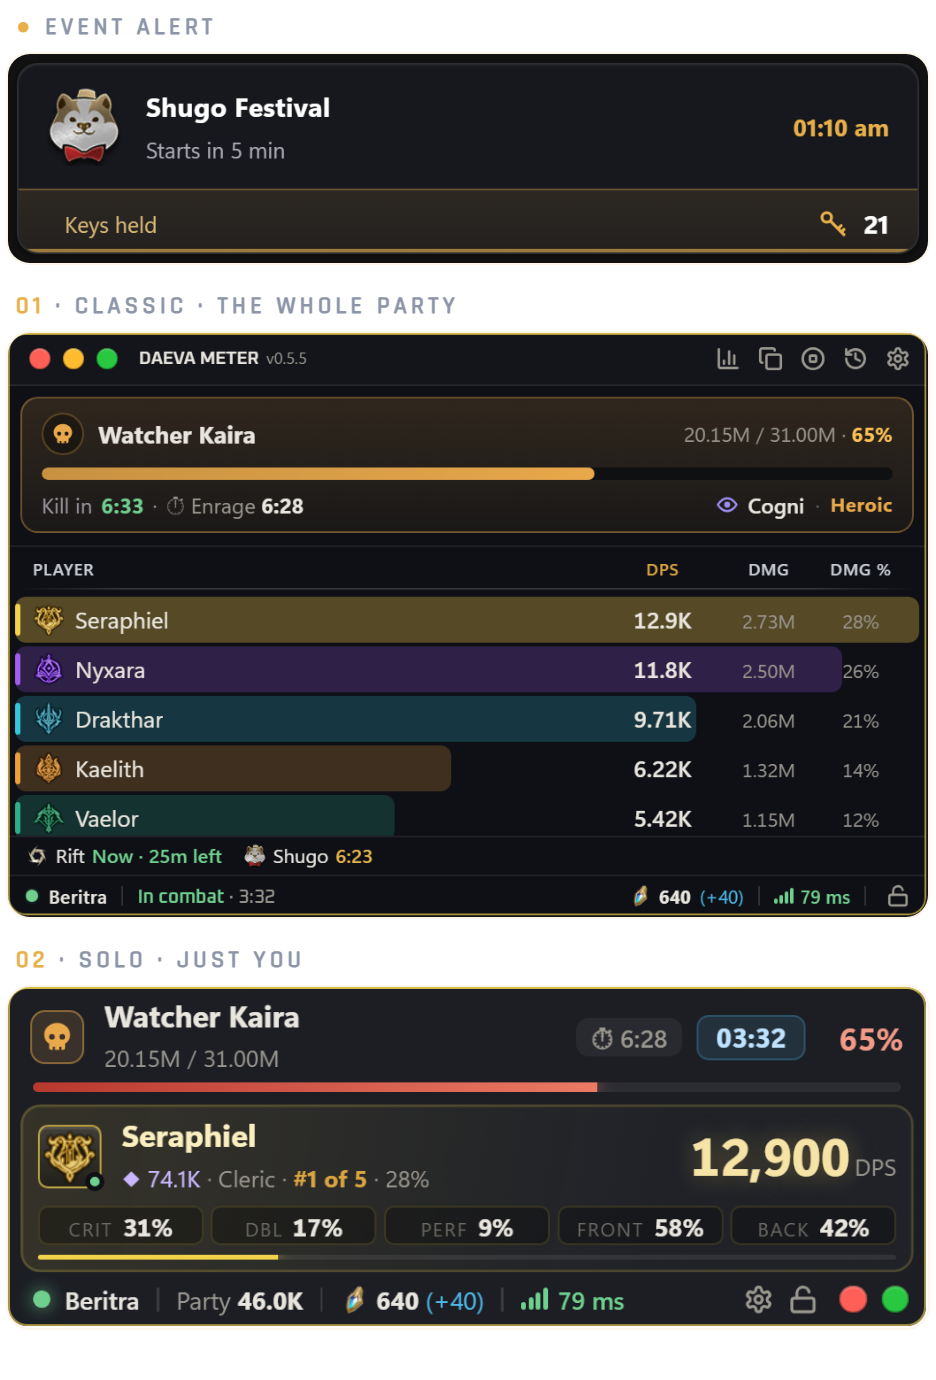
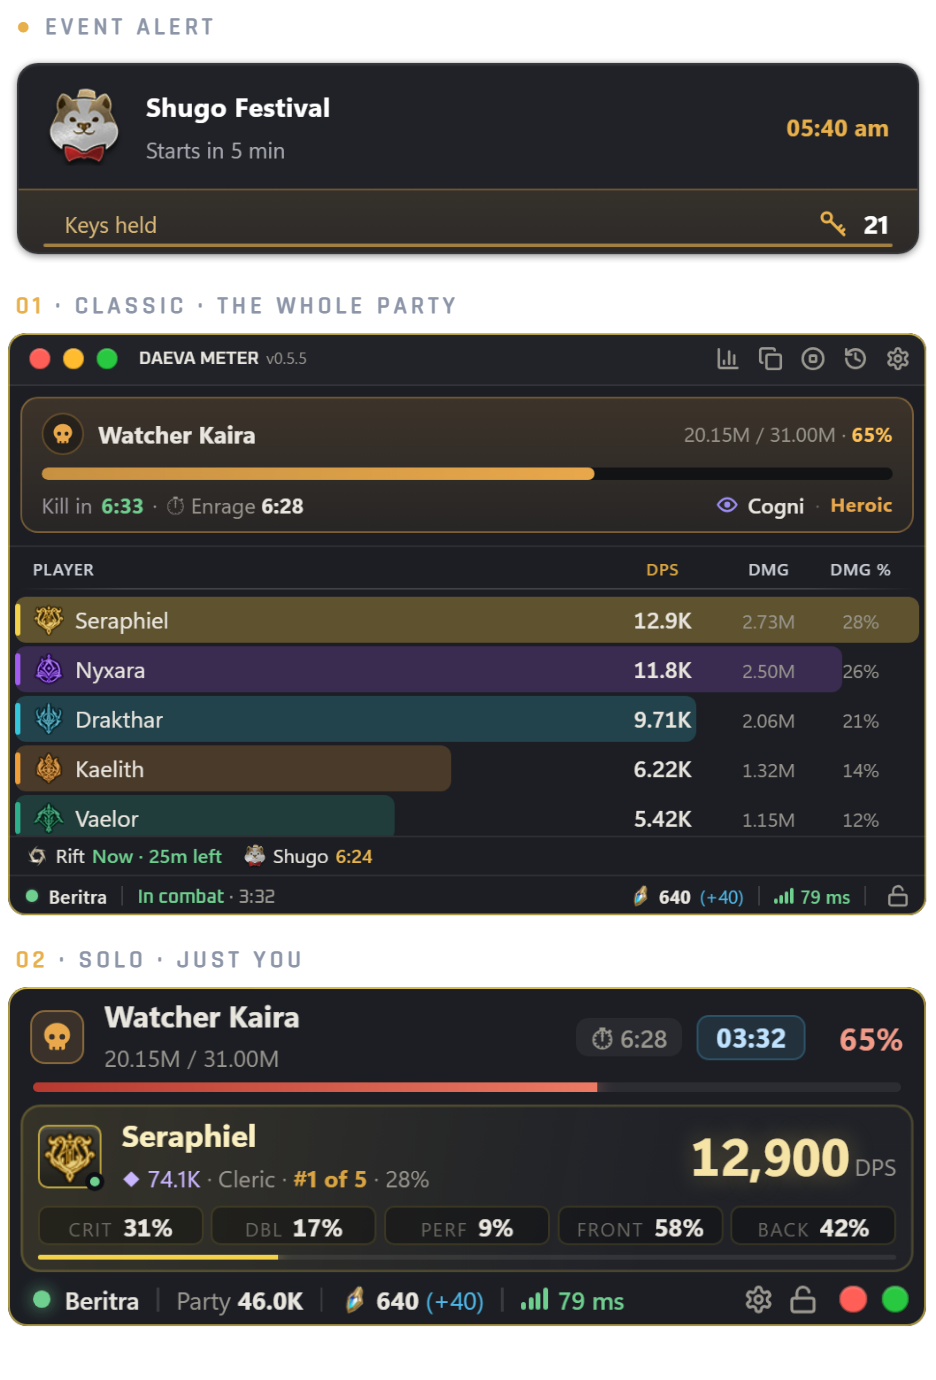
Version 1.12.2: cleaner Daeva Meter pictures (no frame around the windows)

Changed region(s): [[0.0, 0.0312, 0.9915, 0.2181]]

diff --git a/source/src/version.ts b/source/src/version.ts
@@ -3,7 +3,7 @@
  * Bump it with each release (new features: 1.4.0, fixes only: 1.3.1), in
  * step with package.json and CHANGELOG.md; a test checks they agree.
  */
-export const DAEVA_VERSION = "1.12.1";
+export const DAEVA_VERSION = "1.12.2";
 export const DAEVA_NAME = `Daeva v${DAEVA_VERSION}`;
 
 /** The maker's mark, at the end of every card's footer. */

diff --git a/CHANGELOG.md b/CHANGELOG.md
@@ -4,6 +4,10 @@ Daeva, the AION 2 Discord bot behind aion2.bajubesi.org. Versions follow
 the footer on every card: new features raise the middle number (1.4.0),
 fixes only raise the last (1.3.1).
 
+## 1.12.2 · 29 October 2026
+
+- **Cleaner Daeva Meter pictures** on the website and in the Discord release post: each window now shows only its own rounded edge, without the dark frame around it.
+
 ## 1.12.1 · 29 October 2026
 
 - **Daeva Meter 0.5.5 pictures** on the website and in the Discord release post.
